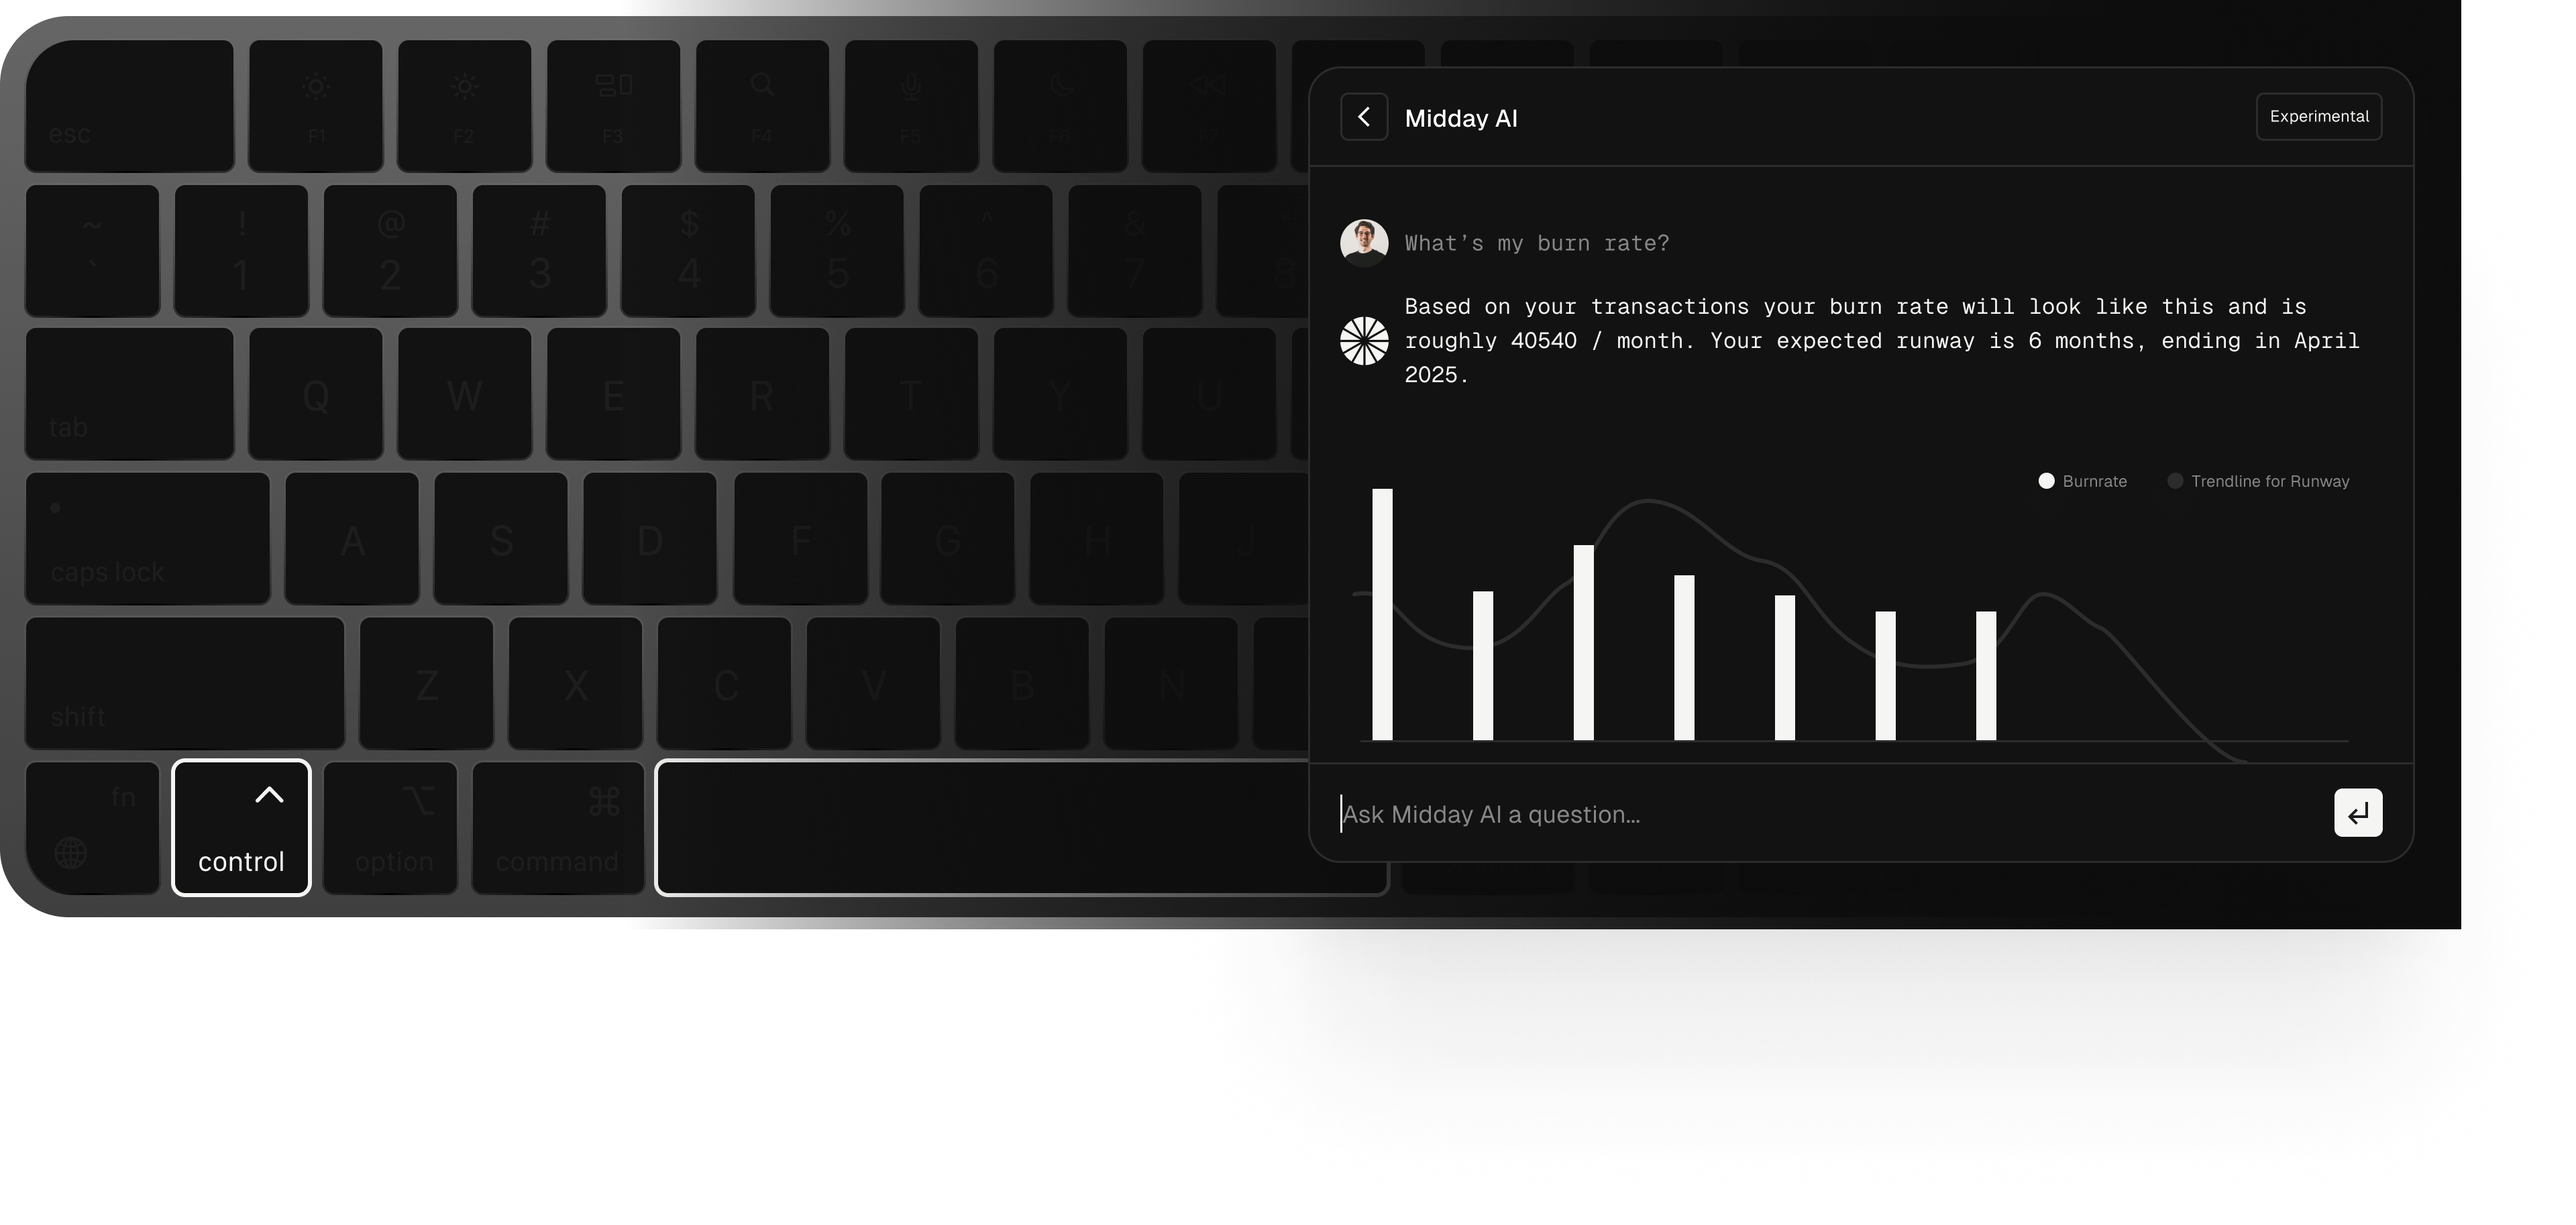
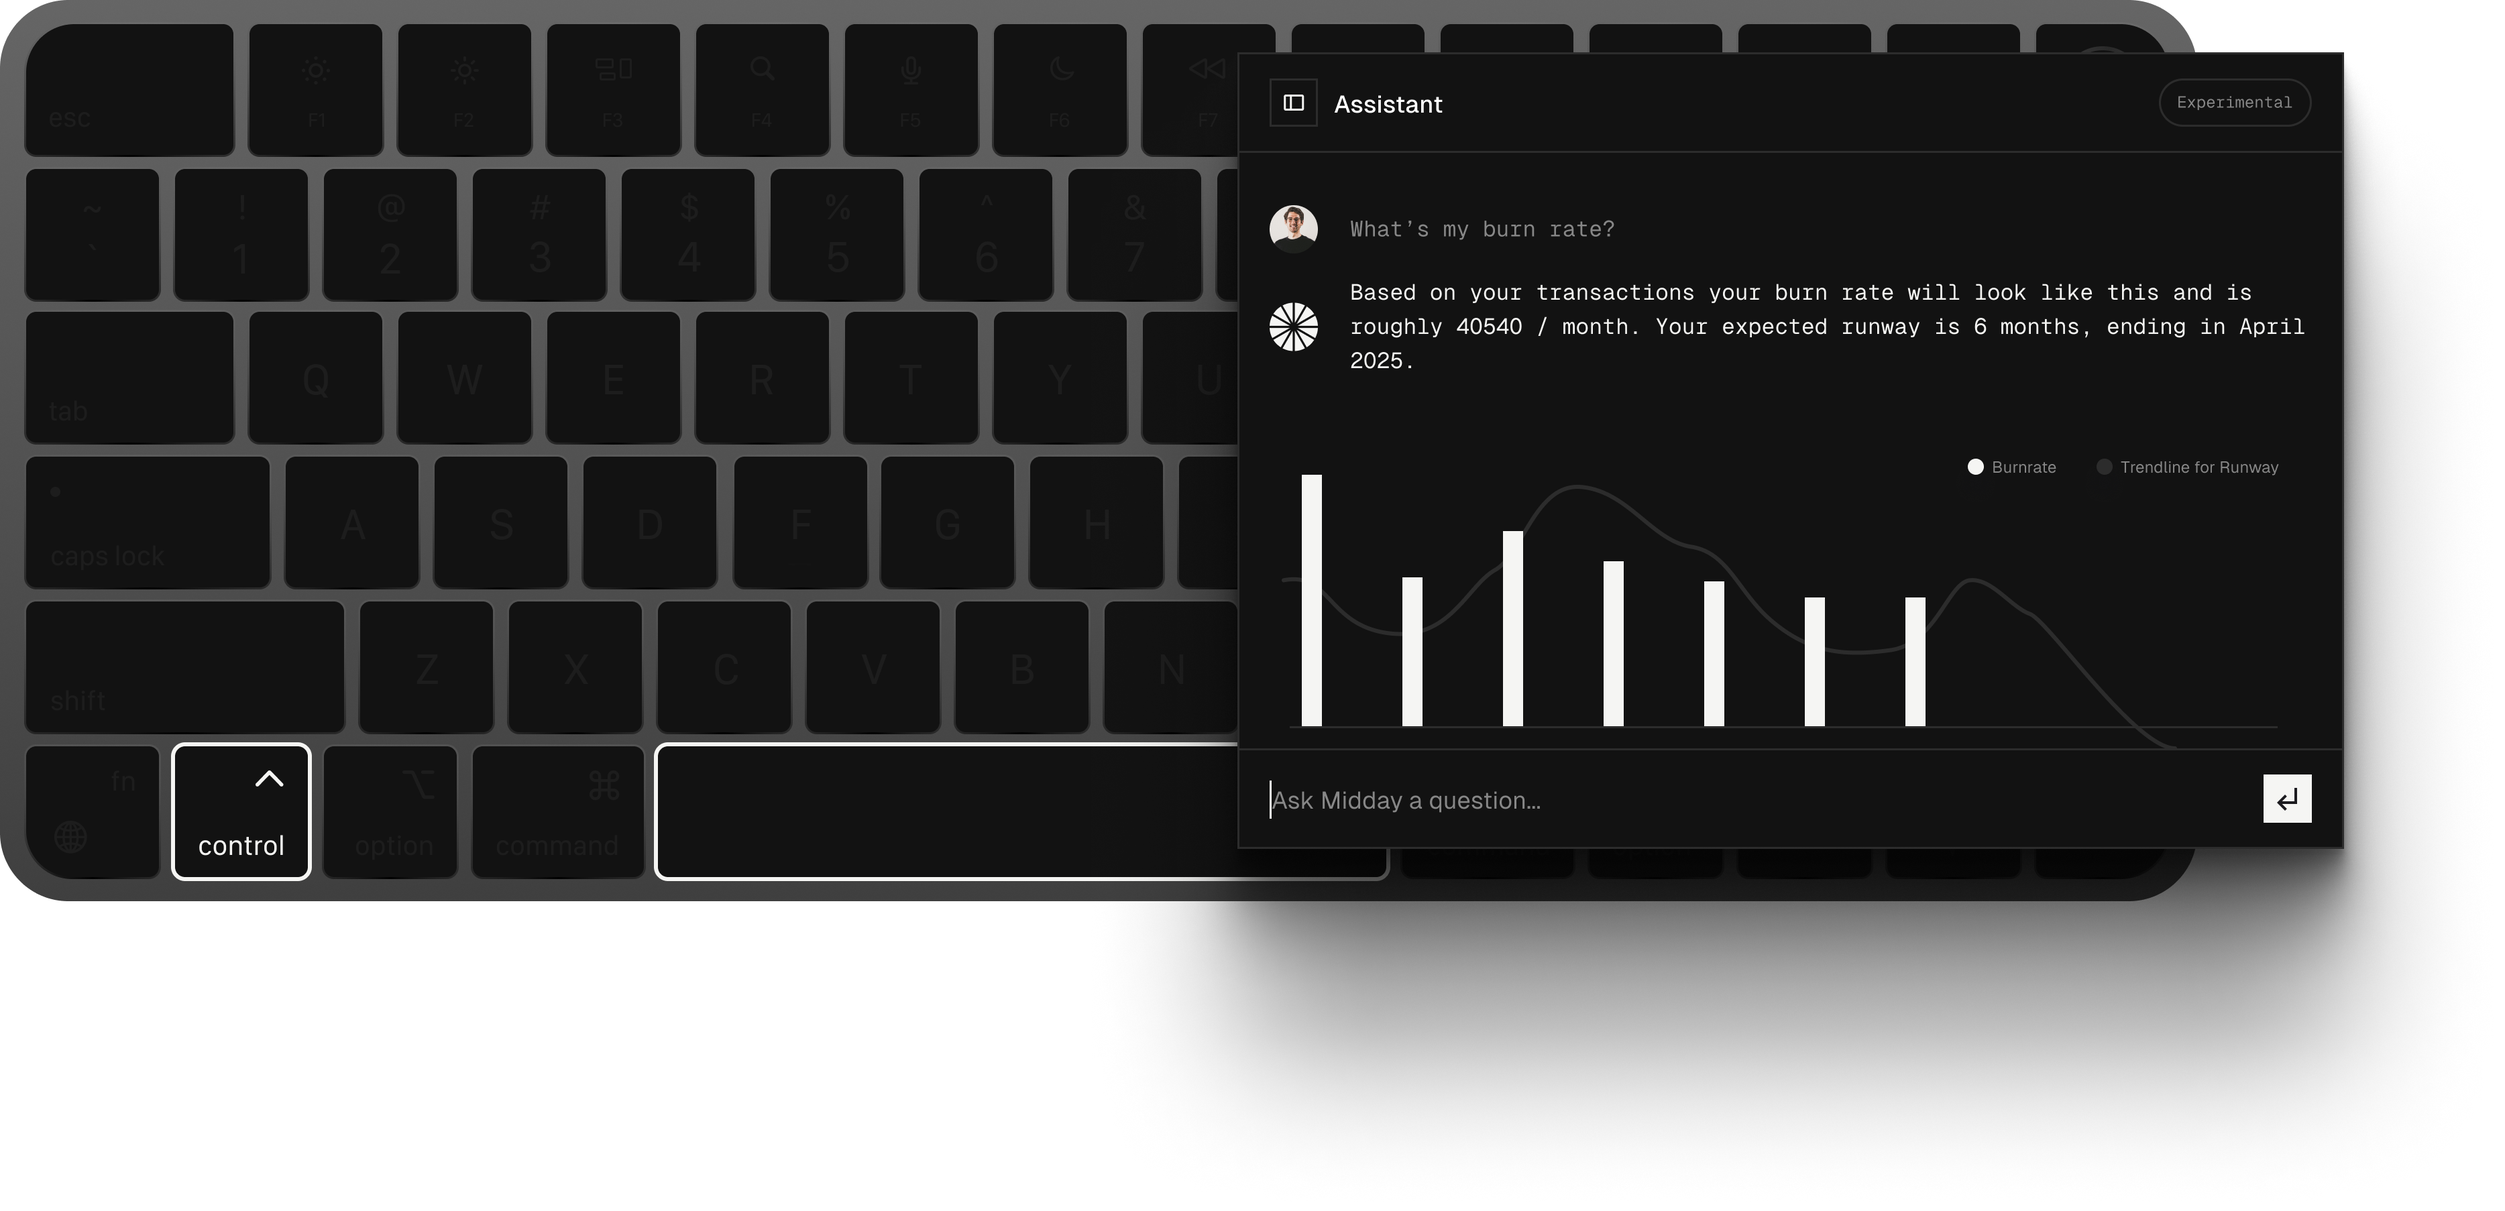
copy

diff --git a/apps/website/src/app/open-startup/page.tsx b/apps/website/src/app/open-startup/page.tsx
@@ -73,21 +73,20 @@ export default async function Page() {
             We prioritize transparency as we believe it is essential for
             fostering trust and credibility in all aspects of our operations.
             It's not just a value, it's the foundation of our relationships with
-            users and investors alike. We prioritize clear and accurate
-            information for users, empowering them to make informed decisions
-            confidently. We uphold transparency with investors, offering open
-            communication about financial performance and strategies to maintain
-            strong, mutually beneficial relationships.
+            users alike. We prioritize clear and accurate information for users,
+            empowering them to make informed decisions confidently. We uphold
+            transparency with our users, offering open communication about
+            financial performance and strategies to maintain strong, mutually
+            beneficial relationships.
           </p>
 
           <h2 className="text-2xl mb-4">Expectation</h2>
           <p className="mb-10 text-[#878787]">
             Accurately setting expectations is crucial, directly tied to our
-            dedication to transparency. This applies not just to users but also
-            to investors. We've observed many startups fall short due to
-            overpromising, highlighting the importance of aligning promises with
-            reality. By maintaining this alignment, we cultivate trust and
-            integrity, fostering a culture of accountability guided by
+            dedication to transparency. We've observed many startups fall short
+            due to overpromising, highlighting the importance of aligning
+            promises with reality. By maintaining this alignment, we cultivate
+            trust and integrity, fostering a culture of accountability guided by
             transparency.
           </p>
 

diff --git a/apps/website/src/components/section-six.tsx b/apps/website/src/components/section-six.tsx
@@ -16,15 +16,15 @@ export function SectionSix() {
 
         <div className="mt-6 md:max-w-[40%] md:ml-8">
           <h3 className="font-medium text-xl md:text-2xl mt-8 mb-4">
-            Your Virtual CFO
+            Assistant
           </h3>
 
           <p className="text-[#878787] text-sm">
-            With Midday AI, you can ask anything and gain insights into your
-            financial situation. Understand your major expenses and income
-            sources. Inquire about transactions without receipts or explore
-            revenue patterns like Burn rate or MRR. Learning from your financial
-            data helps you save money or increase earnings in the long run.
+            Ask Midday anything and get tailored insights into your financial
+            situation. Understand your biggest outgoings and incomings. Ask
+            Midday to find transactions without receipts or search for revenue
+            patterns. Get a better grasp on your financials to help you cut
+            costs, find opportunities and build a longer runway.
           </p>
 
           <div className="mt-8">

diff --git a/apps/website/src/components/hero.tsx b/apps/website/src/components/hero.tsx
@@ -40,7 +40,7 @@ export function Hero() {
             className="rounded-full border-border flex space-x-2 items-center"
           >
             <span className="font-mono text-xs">
-              Introducing Midday Assistant v1
+              Introducing Midday Assistant
             </span>
             <svg
               xmlns="http://www.w3.org/2000/svg"
@@ -87,7 +87,7 @@ export function Hero() {
         <p className="text-xs text-[#707070] mt-8 font-mono">
           Used by over{" "}
           <Link href="/open-startup">
-            <span className="underline">3200+</span>
+            <span className="underline">3300+</span>
           </Link>{" "}
           businesses.
         </p>

diff --git a/apps/website/src/components/brand-canvas.tsx b/apps/website/src/components/brand-canvas.tsx
@@ -121,7 +121,7 @@ export function BrandCanvas() {
         </div>
       </div>
 
-      <div className="fixed bottom-10 z-20 w-full flex justify-center items-center">
+      <div className="fixed bottom-10 z-20 w-full flex justify-center items-center -ml-[80px]">
         <div className="h-[48px] w-[200px] rounded-full border border-border backdrop-filter backdrop-blur-xl bg-[#121212] bg-opacity-70 text-center flex items-center p-1 pl-2 justify-between space-x-4">
           <Select onValueChange={setValue} value={value}>
             <SelectTrigger className="w-[180px] border-0 space-x-2">

diff --git a/apps/website/src/components/footer.tsx b/apps/website/src/components/footer.tsx
@@ -15,7 +15,7 @@ export function Footer() {
   }
 
   return (
-    <footer className="border-t-[1px] border-border px-4 md:px-6 pt-10 md:pt-16 bg-[#0C0C0C] overflow-hidden max-h-[900px]">
+    <footer className="border-t-[1px] border-border px-4 md:px-6 pt-10 md:pt-16 bg-[#0C0C0C] overflow-hidden md:max-h-[820px]">
       <div className="container">
         <div className="flex justify-between items-center border-border border-b-[1px] pb-10 md:pb-16 mb-12">
           <Link href="/" className="scale-50 -ml-[52px] md:ml-0 md:scale-100">

diff --git a/apps/website/src/components/screens.tsx b/apps/website/src/components/screens.tsx
@@ -13,8 +13,7 @@ export function Screens() {
         <div className="text-center pb-14">
           <h3 className="text-4xl md:text-6xl font-medium">The thin layer</h3>
           <p className="mt-4 text-[#878787]">
-            Bridging the gap between your bank and your accountants
-            <br /> software.
+            Bridging the gap between your bank and your accountants software.
           </p>
         </div>
 

diff --git a/apps/website/src/components/section-one.tsx b/apps/website/src/components/section-one.tsx
@@ -4,7 +4,6 @@ export function SectionOne() {
       <h3 className="text-4xl md:text-8xl font-medium">Everything you need</h3>
       <p className="mt-4 md:mt-8 text-[#878787]">
         From automated receipt-to-transaction mapping to conversing with your
-        <br />
         financials and consolidating all your files
       </p>
     </section>
